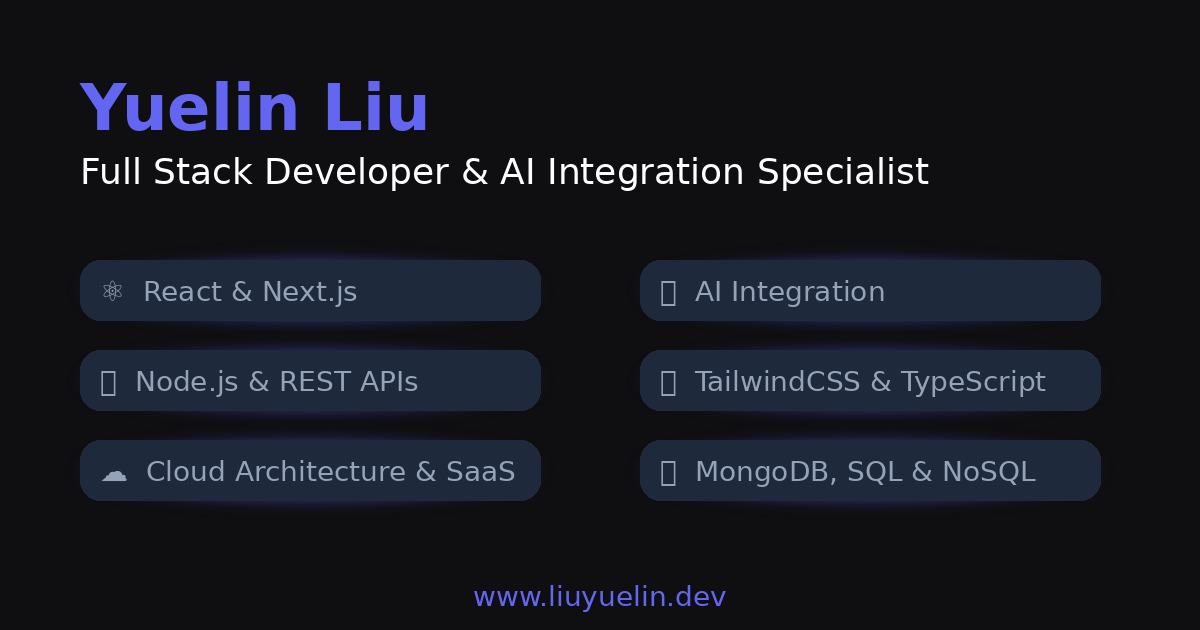
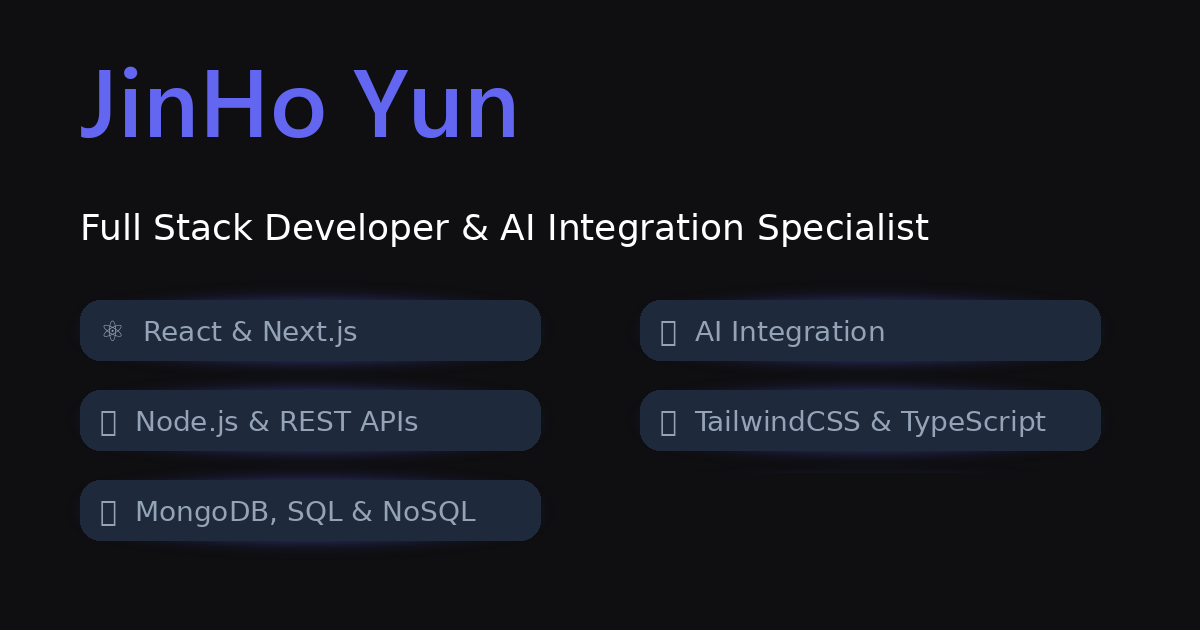
commit

Changed region(s): [[0.0617, 0.3317, 0.925, 0.8746], [0.0617, 0.0905, 0.7708, 0.3016], [0.4008, 0.9349, 0.6167, 0.9651]]

diff --git a/README.md b/README.md
@@ -1,8 +1,7 @@
 # React Portfolio 🚀
 
-[![Live Demo](https://img.shields.io/badge/Live-Demo-blue?style=flat-square&logo=vercel)](https://liuyuelin.dev)
-[![Stars](https://img.shields.io/github/stars/liuyuelintop/react-portfolio?style=social)](https://github.com/liuyuelintop/react-portfolio/stargazers)
-[![Portfolio Version](https://img.shields.io/badge/Version-Phase%207-success?style=flat-square)](https://github.com/liuyuelintop/react-portfolio)
+[![Live Demo](https://img.shields.io/badge/Live-Demo-blue?style=flat-square&logo=vercel)](https://portfoliodev-lovat.vercel.app/)
+[![Portfolio Version](https://img.shields.io/badge/Version-Phase%207-success?style=flat-square)](https://github.com/andysoft-source/Portfolio-Dev)
 
 ---
 
@@ -12,33 +11,7 @@ An innovative, interactive portfolio crafted with cutting-edge React 18 technolo
 
 ---
 
-## 🚦 Lighthouse Performance
-
-| Category       | Desktop | Mobile  |
-| -------------- | ------- | ------- |
-| Performance    | **100** | **89**  |
-| Accessibility  | **100** | **100** |
-| Best Practices | **96**  | **96**  |
-| SEO            | **100** | **100** |
-
-- **Core Web Vitals:** Excellent scores for CLS, LCP, and FCP
-- **Desktop:** Perfect 100 performance with ultra-fast loading
-- **Mobile:** Smooth experience with industry-leading optimization
-- **Accessibility:** Perfect 100 scores with WCAG AA compliance
-- **Modern Standards:** Exceeds accessibility and SEO requirements
-
-> [View Desktop Report](https://pagespeed.web.dev/analysis/https-www-liuyuelin-dev/df2ampev8u?form_factor=desktop) | [View Mobile Report](https://pagespeed.web.dev/analysis/https-www-liuyuelin-dev/df2ampev8u?form_factor=mobile)
-
----
-
 ## ✨ Key Features
-
-### 🎨 **Modern Design & Animations**
-- **Hero Section:** Grid layout with animated CTAs, floating geometric shapes, and skills showcase
-- **Interactive Navigation:** Active section indicators with smooth scroll animations
-- **4-Theme System:** Default, Neon, Minimal, and Corporate themes with system preference detection
-- **Advanced Micro-interactions:** Hover effects, loading states, keyboard shortcuts, and toast notifications
-- **Unified Typography:** Consistent heading styles across all themes with gradient effects
 
 ### 🏗 **Professional Architecture**
 - **Component Organization:** Logical folder structure (`layout/`, `sections/`, `ui/`)
@@ -98,7 +71,7 @@ An innovative, interactive portfolio crafted with cutting-edge React 18 technolo
 
 ### 1. Clone the Repository
 ```bash
-git clone https://github.com/liuyuelintop/react-portfolio.git
+git clone https://github.com/darkbluesky/portfolio.git
 cd react-portfolio
 ```
 
@@ -340,11 +313,7 @@ Comprehensive development documentation is available in the `docs/claude-develop
 
 ## 👨💻 Author
 
-**Yuelin Liu** - Full Stack Developer & AI Engineer
-
-[![LinkedIn](https://img.shields.io/badge/LinkedIn-Connect-blue?style=flat-square&logo=linkedin)](https://linkedin.com/in/liuyuelintop)
-[![GitHub](https://img.shields.io/badge/GitHub-Follow-black?style=flat-square&logo=github)](https://github.com/liuyuelintop)
-[![Blog](https://img.shields.io/badge/Blog-Read-orange?style=flat-square&logo=hashnode)](https://blog.liuyuelin.dev/)
+**JinHo Yun** - Full Stack Developer & AI Engineer
 
 ---
 
